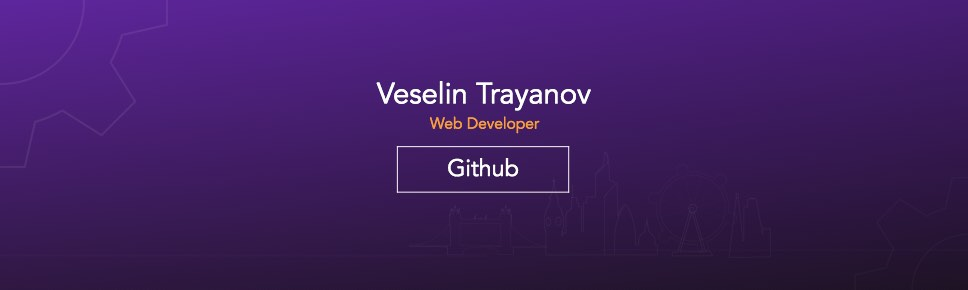
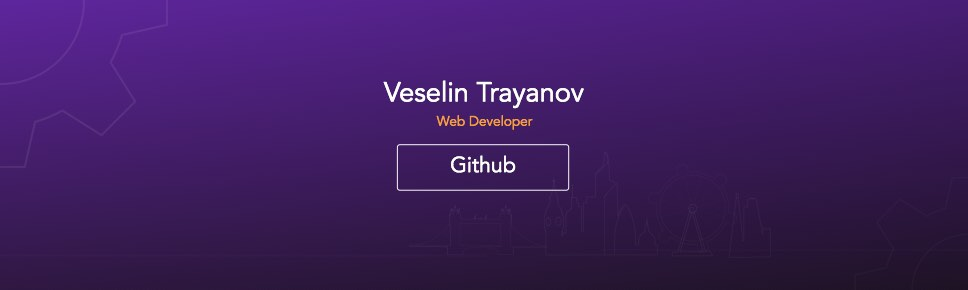
BTN

diff --git a/VH.hyperesources/vh_hype_generated_script.js b/VH.hyperesources/vh_hype_generated_script.js
@@ -4,4 +4,4 @@
 !1)try{for(var c=document.getElementsByTagName("script"),a=0;a<c.length;a++){var d=c[a].src,b=null!=d?d.indexOf("/vh_hype_generated_script.js"):-1;if(-1!=b){l=d.substr(0,b);break}}}catch(p){}c=navigator.userAgent.match(/MSIE (\d+\.\d+)/);c=parseFloat(c&&c[1])||null;d=!0==(null!=window.HYPE_664F||null!=window.HYPE_dtl_664F)||false==!0||null!=c&&10>c;a=!0==d?"HYPE-664.full.min.js":"HYPE-664.thin.min.js";c=!0==d?"F":"T";d=d?"":
 "";if(false==!1&&(a=k("HYPE_664"+c,"HYPE_dtl_664"+c,a,d),false==!0&&(a=a||k("HYPE_w_664","HYPE_wdtl_664","HYPE-664.waypoints.min.js","")),false==!0&&(a=a||k("Matter","HYPE_pdtl_664","HYPE-664.physics.min.js","")),a))return;d=window.HYPE.documents;if(null!=d[f]){b=1;a=f;do f=""+a+"-"+b++;while(null!=d[f]);for(var e=document.getElementsByTagName("div"),
 b=!1,a=0;a<e.length;a++)if(e[a].id==g&&null==e[a].getAttribute("HYP_dn")){var b=1,h=g;do g=""+h+"-"+b++;while(null!=document.getElementById(g));e[a].id=g;b=!0;break}if(!1==b)return}b=[];b=[];e={};h={};for(a=0;a<b.length;a++)try{h[b[a].identifier]=b[a].name,e[b[a].name]=eval("(function(){return "+b[a].source+"})();")}catch(n){window.console&&window.console.log(n),e[b[a].name]=function(){}}c=new window["HYPE_664"+c](f,g,{"10":{p:1,n:"web.svg",g:"119",t:"image/svg+xml"},"2":{p:1,n:"hig.svg",g:"65",t:"image/svg+xml"},"-2":{n:"blank.gif"},"3":{p:1,n:"rocket.svg",g:"67",t:"image/svg+xml"},"11":{p:1,n:"mes.svg",g:"124",t:"image/svg+xml"},"4":{p:1,n:"fl.svg",g:"76",t:"image/svg+xml"},"5":{p:1,n:"bus.svg",g:"80",t:"image/svg+xml"},"12":{p:1,n:"stan.svg",g:"141",t:"image/svg+xml"},"6":{p:1,n:"car1.svg",g:"87",t:"image/svg+xml"},"7":{p:1,n:"q.svg",g:"59",t:"image/svg+xml"},"-1":{n:"PIE.htc"},"0":{p:1,n:"sky.svg",g:"61",t:"image/svg+xml"},"8":{p:1,n:"code.svg",g:"102",t:"image/svg+xml"},"1":{p:1,n:"bridge.svg",g:"63",t:"image/svg+xml"},"9":{p:1,n:"wh.svg",g:"115",t:"image/svg+xml"}},l,[],e,[{n:"Untitled Scene",o:"1",X:[0]}],
-[{o:"3",p:"600px",cA:false,a:100,Z:300,Y:1000,c:"#FFF",L:[],bY:1,d:1000,U:{},T:{"149_hover":{q:false,z:1,i:"149_hover",n:"149_hover",a:[{f:"b",y:0,z:1,i:"g",e:"rgba(78, 33, 125, 0.599)",s:"rgba(240, 240, 240, 0.000)",o:"156"},{f:"b",y:0,z:1,i:"Q",e:7,s:0,o:"156"},{f:"b",y:0,z:1,i:"S",e:0,s:0,o:"156"},{f:"b",y:0,z:1,i:"T",e:6,s:0,o:"156"},{f:"b",y:0,z:1,i:"R",e:"rgba(0, 0, 0, 0.425)",s:"#000",o:"156"},{y:1,i:"g",s:"rgba(78, 33, 125, 0.599)",z:0,o:"156",f:"b"},{y:1,i:"Q",s:7,z:0,o:"156",f:"b"},{y:1,i:"S",s:0,z:0,o:"156",f:"b"},{y:1,i:"T",s:6,z:0,o:"156",f:"b"},{y:1,i:"R",s:"rgba(0, 0, 0, 0.425)",z:0,o:"156",f:"b"}],f:30,b:[]},"149_pressed":{q:false,z:1,i:"149_pressed",n:"149_pressed",a:[{f:"b",y:0,z:1,i:"g",e:"rgba(45, 23, 63, 0.602)",s:"rgba(240, 240, 240, 0.000)",o:"156"},{f:"b",y:0,z:1,i:"B",e:"#C7BEDE",s:"#FFF",o:"156"},{f:"b",y:0,z:1,i:"C",e:"#C7BEDE",s:"#FFF",o:"156"},{f:"b",y:0,z:1,i:"D",e:"#C7BEDE",s:"#FFF",o:"156"},{f:"b",y:0,z:1,i:"A",e:"#C7BEDE",s:"#FFF",o:"156"},{f:"b",y:0,z:1,i:"S",e:0,s:0,o:"156"},{f:"b",y:0,z:1,i:"T",e:0,s:0,o:"156"},{f:"b",y:0,z:1,i:"Q",e:1,s:0,o:"156"},{f:"b",y:0,z:1,i:"R",e:"#000",s:"#000",o:"156"},{y:1,i:"g",s:"rgba(45, 23, 63, 0.602)",z:0,o:"156",f:"b"},{y:1,i:"B",s:"#C7BEDE",z:0,o:"156",f:"b"},{y:1,i:"C",s:"#C7BEDE",z:0,o:"156",f:"b"},{y:1,i:"D",s:"#C7BEDE",z:0,o:"156",f:"b"},{y:1,i:"A",s:"#C7BEDE",z:0,o:"156",f:"b"},{y:1,i:"S",s:0,z:0,o:"156",f:"b"},{y:1,i:"T",s:0,z:0,o:"156",f:"b"},{y:1,i:"Q",s:1,z:0,o:"156",f:"b"},{y:1,i:"R",s:"#000",z:0,o:"156",f:"b"}],f:30,b:[]},kTimelineDefaultIdentifier:{j:{"7":[[-51,156,-51,156,1252,8,1252,8]],"3":[[1263,272,1263,272,1160,272,1013,272],[1013,272,639,272,-58,272,-58,272]],"8":[[1247,379,1247,379,203,-34,203,-34]],"4":[[903,366,903,366,505,-59,505,-59]],"0":[[910,372,910,372,903,366,903,366]],"9":[[-58,272,-58,272,-128,272,-128,272]],"5":[[-62,157,-62,157,-51,156,-51,156]],"1":[[-75,157,-75,157,-62,157,-62,157]],"6":[[505,-59,505,-59,494,-58,494,-58]],"2":[[1421,273,1421,273,1263,272,1263,272]]},q:false,z:23,i:"kTimelineDefaultIdentifier",n:"Main Timeline",a:[{f:"b",y:0,z:0.1,i:"a",e:133,s:123,o:"180"},{f:"b",y:0,z:0.1,i:"b",e:312,s:315,o:"180"},{f:"b",y:0,z:5.17,i:"c",e:35,s:34,o:"180"},{f:"b",y:0,z:5.17,i:"d",e:35,s:34,o:"180"},{f:"b",y:0,z:5.17,i:"f",e:20,s:0,o:"180"},{o:"159",y:0,z:3.09,i:"a",e:880,a:"0",f:"b",s:887},{f:"b",y:0,z:8.07,i:"f",e:272,s:286,o:"159"},{o:"159",y:0,z:3.09,i:"b",e:343,a:"0",f:"b",s:349},{o:"165",y:0,z:5,i:"b",e:134,a:"1",f:"b",s:134},{o:"165",y:0,z:5,i:"a",e:-85,a:"1",f:"b",s:-98},{f:"b",y:0,z:19.21,i:"b",e:220,s:223,o:"177"},{f:"b",y:0,z:19.21,i:"a",e:1221,s:-296,o:"177"},{f:"b",y:0,z:23,i:"f",e:369,s:0,o:"181"},{f:"b",y:0,z:1.16,i:"a",e:1224,s:1966,o:"182"},{f:"b",y:0,z:1.16,i:"b",e:235,s:251,o:"182"},{o:"183",y:0,z:2.25,i:"b",e:221.5,a:"2",f:"b",s:222.5},{o:"183",y:0,z:2.25,i:"a",e:1216.5,a:"2",f:"b",s:1374.5},{f:"b",y:0,z:22,i:"b",e:-1617,s:-59,o:"157"},{f:"b",y:0,z:22,i:"a",e:-4,s:0,o:"157"},{f:"b",y:0,z:22,i:"a",e:992,s:-1287,o:"171"},{f:"b",y:0,z:22,i:"b",e:-1039,s:-1008,o:"171"},{f:"b",y:0,z:22,i:"a",e:-760,s:1627,o:"179"},{f:"b",y:0,z:22,i:"b",e:-1249,s:-1249,o:"179"},{f:"b",y:0,z:21.02,i:"b",e:888,s:-1741,o:"168"},{f:"b",y:0,z:21.02,i:"a",e:42,s:54,o:"168"},{f:"b",y:0,z:21.02,i:"e",e:0.040001978,s:0.062598892,o:"168"},{f:"b",y:0,z:22.14,i:"f",e:360,s:0,o:"160"},{f:"b",y:0,z:22.14,i:"f",e:0,s:360,o:"174"},{f:"b",y:0,z:22.14,i:"b",e:-378,s:345,o:"163"},{f:"b",y:0,z:22.14,i:"a",e:176,s:188,o:"163"},{f:"b",y:0,z:9.17,i:"b",e:521,s:-195,o:"184"},{f:"b",y:0,z:9.17,i:"a",e:511,s:511,o:"184"},{f:"b",y:0,z:21.11,i:"a",e:1072,s:-219,o:"176"},{f:"b",y:0,z:21.11,i:"b",e:41,s:41,o:"176"},{f:"b",y:0.1,z:5.07,i:"a",e:932,s:133,o:"180"},{f:"b",y:0.1,z:5.07,i:"b",e:-32,s:312,o:"180"},{f:"b",y:1.16,z:21,i:"b",e:227,s:235,o:"182"},{f:"b",y:1.16,z:8.23,i:"a",e:1216,s:1224,o:"182"},{o:"183",y:2.25,z:14.05,i:"a",e:-104.5,a:"3",f:"b",s:1216.5},{o:"183",y:2.25,z:14.05,i:"b",e:221.5,a:"3",f:"b",s:221.5},{f:"b",y:3,z:16,i:"a",e:1088,s:-197,o:"166"},{f:"b",y:3,z:16,i:"b",e:71,s:71,o:"166"},{o:"159",y:3.09,z:1.21,i:"a",e:482,a:"4",f:"b",s:880},{o:"159",y:3.09,z:1.21,i:"b",e:-82,a:"4",f:"b",s:343},{f:"b",y:3.23,z:14.22,i:"a",e:421,s:389,o:"162"},{f:"b",y:3.23,z:14.22,i:"b",e:-1610,s:-53,o:"162"},{o:"165",y:5,z:1.09,i:"b",e:133,a:"5",f:"b",s:134},{o:"165",y:5,z:1.09,i:"a",e:-74,a:"5",f:"b",s:-85},{o:"159",y:5,z:0.05,i:"a",e:471,a:"6",f:"b",s:482},{o:"159",y:5,z:0.05,i:"b",e:-81,a:"6",f:"b",s:-82},{y:5.05,i:"b",s:-81,z:0,o:"159",f:"b"},{y:5.05,i:"a",s:471,z:0,o:"159",f:"b"},{y:5.17,i:"c",s:35,z:0,o:"180",f:"b"},{y:5.17,i:"d",s:35,z:0,o:"180",f:"b"},{y:5.17,i:"f",s:20,z:0,o:"180",f:"b"},{y:5.17,i:"b",s:-32,z:0,o:"180",f:"b"},{y:5.17,i:"a",s:932,z:0,o:"180",f:"b"},{o:"165",y:6.09,z:7.21,i:"b",e:-15,a:"7",f:"b",s:133},{o:"165",y:6.09,z:7.21,i:"a",e:1229,a:"7",f:"b",s:-74},{f:"b",y:8.07,z:3.23,i:"f",e:299,s:272,o:"159"},{o:"167",y:8.14,z:14,i:"a",e:180,a:"8",f:"b",s:1224},{o:"167",y:8.14,z:14,i:"b",e:-57,a:"8",f:"b",s:356},{y:9.17,i:"b",s:521,z:0,o:"184",f:"b"},{y:9.17,i:"a",s:511,z:0,o:"184",f:"b"},{f:"b",y:10.09,z:12.07,i:"a",e:-90,s:1216,o:"182"},{y:12,i:"f",s:299,z:0,o:"159",f:"b"},{y:14,i:"b",s:-15,z:0,o:"165",f:"b"},{y:14,i:"a",s:1229,z:0,o:"165",f:"b"},{f:"b",y:16,z:6,i:"d",e:35,s:45,o:"154"},{f:"b",y:16,z:6,i:"a",e:1219,s:-43,o:"154"},{f:"b",y:16,z:6,i:"b",e:-27,s:306,o:"154"},{f:"b",y:16,z:6,i:"c",e:35,s:45,o:"154"},{o:"183",y:17,z:1.15,i:"a",e:-174.5,a:"9",f:"b",s:-104.5},{o:"183",y:17,z:1.15,i:"b",e:221.5,a:"9",f:"b",s:221.5},{y:18.15,i:"a",s:421,z:0,o:"162",f:"b"},{y:18.15,i:"b",s:-1610,z:0,o:"162",f:"b"},{y:18.15,i:"b",s:221.5,z:0,o:"183",f:"b"},{y:18.15,i:"a",s:-174.5,z:0,o:"183",f:"b"},{y:19,i:"a",s:1088,z:0,o:"166",f:"f"},{y:19,i:"b",s:71,z:0,o:"166",f:"f"},{y:19.21,i:"b",s:220,z:0,o:"177",f:"b"},{y:19.21,i:"a",s:1221,z:0,o:"177",f:"b"},{y:21.02,i:"b",s:888,z:0,o:"168",f:"b"},{y:21.02,i:"a",s:42,z:0,o:"168",f:"b"},{y:21.02,i:"e",s:0.040001978,z:0,o:"168",f:"b"},{y:21.11,i:"a",s:1072,z:0,o:"176",f:"b"},{y:21.11,i:"b",s:41,z:0,o:"176",f:"b"},{y:22,i:"c",s:35,z:0,o:"154",f:"b"},{y:22,i:"b",s:-27,z:0,o:"154",f:"b"},{y:22,i:"a",s:1219,z:0,o:"154",f:"b"},{y:22,i:"d",s:35,z:0,o:"154",f:"b"},{y:22,i:"b",s:-1617,z:0,o:"157",f:"b"},{y:22,i:"a",s:-4,z:0,o:"157",f:"b"},{y:22,i:"a",s:992,z:0,o:"171",f:"b"},{y:22,i:"b",s:-1039,z:0,o:"171",f:"b"},{y:22,i:"b",s:-1249,z:0,o:"179",f:"b"},{y:22,i:"a",s:-760,z:0,o:"179",f:"b"},{f:"b",p:2,y:22.14,z:0,i:"ActionHandler",s:{a:[{b:"kTimelineDefaultIdentifier",p:3,z:false,symbolOid:"2"}]},o:"kTimelineDefaultIdentifier"},{y:22.14,i:"b",s:-57,z:0,o:"167",f:"b"},{y:22.14,i:"a",s:180,z:0,o:"167",f:"b"},{y:22.14,i:"f",s:360,z:0,o:"160",f:"b"},{y:22.14,i:"f",s:0,z:0,o:"174",f:"b"},{y:22.14,i:"b",s:-378,z:0,o:"163",f:"b"},{y:22.14,i:"a",s:176,z:0,o:"163",f:"b"},{y:22.16,i:"b",s:227,z:0,o:"182",f:"b"},{y:22.16,i:"a",s:-90,z:0,o:"182",f:"b"},{y:23,i:"f",s:369,z:0,o:"181",f:"b"}],f:30,b:[]}},bZ:180,O:["168","179","171","160","184","157","162","158","170","176","166","161","175","165","156","155","172","173","174","181","164","177","183","182","169","178","154","180","163","159","167"],n:"Untitled Layout","_":0,v:{"173":{h:"65",p:"no-repeat",x:"visible",a:752,q:"100% 100%",b:156,j:"absolute",r:"inline",z:4,bS:261,dB:"img",d:153,k:"div",c:45,e:0.1},"165":{h:"67",p:"no-repeat",x:"visible",tY:0.5,q:"100% 100%",a:-98,j:"absolute",r:"inline",bS:296,b:134,z:11,d:46,dB:"img",k:"div",e:0.13453323,c:46,f:394,tX:0.5},"157":{h:"102",p:"no-repeat",x:"visible",a:0,dB:"img",q:"100% 100%",j:"absolute",r:"inline",z:23,b:-59,k:"div",d:2604,c:651,e:0.04},"178":{c:479,bS:5,d:-2,I:"Solid",e:0.2,J:"Solid",K:"Solid",g:"rgba(198, 9, 204, 0.000)",L:"Solid",M:1,N:1,A:"#431D69",j:"absolute",x:"visible",B:"#431D69",P:1,O:1,C:"#431D69",z:22,k:"div",D:"#431D69",a:621,b:257},"161":{aU:8,G:"#FFF",c:984,bS:5,aV:8,r:"inline",d:32,s:"Avenir,Helvetica,Arial,Sans-Serif",t:30,Z:"break-word",w:"Veselin Trayanov\n",j:"absolute",x:"visible",k:"div",y:"preserve",z:38,aS:8,aT:8,a:0,F:"center",b:69},"182":{w:"",h:"87",p:"no-repeat",x:"visible",bS:256,q:"100% 100%",b:251,a:1966,j:"absolute",r:"inline",z:20,dB:"img",d:87,k:"div",cQ:1.1,e:0.15,c:87},"174":{h:"115",p:"no-repeat",x:"visible",a:857,q:"100% 100%",b:157,j:"absolute",r:"inline",bS:5,z:30,dB:"img",d:286,k:"div",c:286,bL:0,e:0.033148734,f:360},"166":{h:"124",p:"no-repeat",x:"visible",a:-197,dB:"img",q:"100% 100%",j:"absolute",r:"none",z:33,k:"div",b:71,d:169,c:169},"158":{c:1117,bS:7,d:324,I:"Solid",J:"Solid",K:"Solid",L:"Solid",M:0,w:"",N:0,A:"#512284",j:"absolute",x:"visible",B:"#512284",O:0,P:0,C:"#512284",z:35,l:-572,D:"#512284",m:"rgba(0, 0, 0, 0.183)",k:"div",n:"rgba(101, 37, 158, 0.089)",a:-8,b:-9},"179":{h:"102",p:"no-repeat",x:"visible",a:1627,q:"100% 100%",b:-1249,j:"absolute",r:"inline",z:27,dB:"img",k:"div",d:2604,c:651,bL:2,e:0.03,f:270},"170":{c:1001,bS:263,d:307,r:"inline",I:"None",J:"None",K:"None",L:"None",M:0,N:0,A:"#B31F9C",j:"absolute",x:"visible",B:"#B31F9C",O:0,P:0,C:"#B31F9C",z:3,l:356,D:"#B31F9C",m:"#1C131F",k:"div",n:"#631FA7",a:-1,b:-1},"162":{h:"102",p:"no-repeat",x:"visible",a:389,q:"100% 100%",b:-53,j:"absolute",r:"inline",bS:5,z:24,dB:"img",d:2604,k:"div",c:651,bL:0.05,e:0.07},"154":{h:"76",p:"no-repeat",x:"visible",a:-43,q:"100% 100%",bS:256,j:"absolute",r:"inline",b:306,z:13,dB:"img",d:45,bG:0,k:"div",bL:0,e:0.47231013,c:45,f:22},"183":{p:"no-repeat",tY:0.5,b:222.5,q:"100% 100%",bS:256,d:101,r:"inline",c:93,e:0.15,cQ:1.1,cR:1,h:"80",aY:180,j:"absolute",x:"visible",k:"div",dB:"img",z:17,tX:0.5,a:1374.5,bR:0},"175":{aU:8,G:"#FD9F28",c:985,bS:5,aV:8,r:"inline",d:22,s:"Avenir,Helvetica,Arial,Sans-Serif",t:16,Z:"break-word",w:"Web Developer",j:"absolute",x:"visible",k:"div",y:"preserve",z:39,aS:8,aT:8,a:0,F:"center",b:109},"167":{h:"67",p:"no-repeat",x:"visible",tY:0.5,q:"100% 100%",a:1224,j:"absolute",r:"inline",bS:256,b:356,z:12,d:46,dB:"img",k:"div",e:0.17034217,c:46,f:977,tX:0.5},"159":{h:"67",p:"no-repeat",x:"visible",tY:0.5,q:"100% 100%",a:887,j:"absolute",r:"inline",bS:256,b:349,z:10,d:46,dB:"img",k:"div",e:0.159464,c:46,f:286,tX:0.5},"171":{h:"102",p:"no-repeat",x:"visible",a:-1287,q:"100% 100%",b:-1008,j:"absolute",r:"inline",z:26,dB:"img",k:"div",d:2604,c:651,bL:2,e:0.04,f:90},"163":{h:"119",p:"no-repeat",x:"visible",a:188,q:"100% 100%",b:345,j:"absolute",r:"inline",bS:5,z:29,dB:"img",d:200,k:"div",c:200,bL:0,e:0.066139241},"155":{h:"61",p:"no-repeat",x:"visible",a:561,q:"100% 100%",b:156,j:"absolute",r:"inline",z:6,bS:261,dB:"img",d:118,k:"div",c:119,e:0.13834059},"184":{p:"no-repeat",bJ:0.87618671,c:145,q:"100% 100%",bS:5,bK:0.45747628,r:"inline",d:145,e:0.1,h:"119",j:"absolute",x:"visible",bG:1,k:"div",dB:"img",z:32,bH:226,bI:11,a:511,b:-195},"176":{h:"124",p:"no-repeat",x:"visible",a:-219,dB:"img",q:"100% 100%",j:"absolute",r:"inline",z:34,b:41,k:"div",d:200,c:200,e:0.2},"168":{h:"102",p:"no-repeat",x:"visible",a:54,q:"100% 100%",b:-1741,j:"absolute",r:"inline",z:25,dB:"img",k:"div",d:2604,c:651,bL:2,e:0.062598892},"180":{h:"67",p:"no-repeat",x:"visible",a:123,q:"100% 100%",b:315,j:"absolute",r:"inline",z:9,bS:256,dB:"img",d:34,k:"div",c:34,e:0.2,f:0},"172":{h:"141",p:"no-repeat",x:"visible",a:657,q:"100% 100%",b:158,j:"absolute",r:"inline",z:40,bS:5,dB:"img",d:115,k:"div",c:115,e:0.15},"164":{w:"",h:"63",p:"no-repeat",x:"visible",bS:261,q:"100% 100%",b:184,a:421,j:"absolute",r:"inline",z:7,dB:"img",d:107,k:"div",c:145,e:0.082990506},"156":{b:151,z:41,K:"Solid",c:164,L:"Solid",d:34,gg:"0",M:1,e:1,bD:"none",N:1,aS:6,bS:5,O:1,g:"rgba(240, 240, 240, 0.000)",aU:6,P:1,dB:"button",aT:6,Q:0,aV:6,R:"#000",j:"absolute",S:0,k:"div",aI:0,T:0,aJ:0,aK:0,aL:0,A:"#FFF",B:"#FFF",aM:"149_hover",r:"inline",C:"#FFF",Z:"break-word",s:"Avenir,Helvetica,Arial,Sans-Serif",aN:"149_pressed",D:"#FFF",t:24,F:"center",aA:{a:[{j:"https://github.com/bacc0/",p:5,k:true}]},G:"#FFF",aP:"pointer",w:"Github",x:"visible",I:"Solid",a:410,y:"preserve",J:"Solid"},"177":{h:"80",p:"no-repeat",x:"visible",a:-296,q:"100% 100%",b:223,j:"absolute",r:"inline",z:14,bS:261,dB:"img",d:97,k:"div",c:98,e:0.15},"169":{c:1316,bS:5,d:-2,I:"Solid",cY:"0",e:0.1,J:"Solid",aW:0,gg:"0",K:"Solid",g:"#C609CC",L:"Solid",aX:10,M:1,N:1,j:"absolute",O:1,x:"visible",B:"#512284",P:1,A:"#512284",C:"#512284",z:21,Q:0,D:"#512284",R:"#000",k:"div",S:0,a:-815,T:0,b:263},"160":{p:"no-repeat",bJ:0,c:418,q:"100% 100%",bK:0.8880538,r:"inline",d:418,e:0.084721123,bL:2,f:0,h:"115",j:"absolute",x:"visible",bG:1,k:"div",dB:"img",z:28,bH:90,bI:11,a:-209,b:-209},"181":{h:"59",p:"no-repeat",x:"visible",a:668,q:"100% 100%",b:168,j:"absolute",r:"inline",z:5,bS:261,dB:"img",d:94,k:"div",c:94,e:0.069610364,f:0}}}],{},h,{f:{p:0,q:[[0,0,0.1971,0,0.3391,0.8944,0.3636,1],[0.3636,1,0.3636,1,0.4425,0.75,0.5455,0.75],[0.5455,0.75,0.6519,0.75,0.7273,1,0.7273,1],[0.7273,1,0.7273,1,0.7718,0.9375,0.8182,0.9375],[0.8182,0.9375,0.8646,0.9375,0.9091,1,0.9091,1],[0.9091,1,0.9091,1,0.9294,0.9844,0.9546,0.9844],[0.9546,0.9844,0.9798,0.9844,1,1,1,1]]}},null,false,true,-1,true,true,false,true,true);d[f]=c.API;document.getElementById(g).setAttribute("HYP_dn",f);c.z_o(this.body)})();})();
+[{o:"3",p:"600px",cA:false,a:100,Z:300,Y:1000,c:"#FFF",L:[],bY:1,d:1000,U:{},T:{"149_hover":{q:false,z:1,i:"149_hover",n:"149_hover",a:[{f:"b",y:0,z:1,i:"g",e:"rgba(78, 33, 125, 0.599)",s:"rgba(240, 240, 240, 0.000)",o:"156"},{f:"b",y:0,z:1,i:"Q",e:7,s:0,o:"156"},{f:"b",y:0,z:1,i:"S",e:0,s:0,o:"156"},{f:"b",y:0,z:1,i:"T",e:6,s:0,o:"156"},{f:"b",y:0,z:1,i:"R",e:"rgba(0, 0, 0, 0.425)",s:"#000",o:"156"},{y:1,i:"g",s:"rgba(78, 33, 125, 0.599)",z:0,o:"156",f:"b"},{y:1,i:"Q",s:7,z:0,o:"156",f:"b"},{y:1,i:"S",s:0,z:0,o:"156",f:"b"},{y:1,i:"T",s:6,z:0,o:"156",f:"b"},{y:1,i:"R",s:"rgba(0, 0, 0, 0.425)",z:0,o:"156",f:"b"}],f:30,b:[]},"149_pressed":{q:false,z:1,i:"149_pressed",n:"149_pressed",a:[{f:"b",y:0,z:1,i:"g",e:"rgba(45, 23, 63, 0.602)",s:"rgba(240, 240, 240, 0.000)",o:"156"},{f:"b",y:0,z:1,i:"B",e:"#C7BEDE",s:"#FFF",o:"156"},{f:"b",y:0,z:1,i:"C",e:"#C7BEDE",s:"#FFF",o:"156"},{f:"b",y:0,z:1,i:"D",e:"#C7BEDE",s:"#FFF",o:"156"},{f:"b",y:0,z:1,i:"A",e:"#C7BEDE",s:"#FFF",o:"156"},{f:"b",y:0,z:1,i:"S",e:0,s:0,o:"156"},{f:"b",y:0,z:1,i:"T",e:0,s:0,o:"156"},{f:"b",y:0,z:1,i:"Q",e:1,s:0,o:"156"},{f:"b",y:0,z:1,i:"R",e:"#000",s:"#000",o:"156"},{y:1,i:"g",s:"rgba(45, 23, 63, 0.602)",z:0,o:"156",f:"b"},{y:1,i:"B",s:"#C7BEDE",z:0,o:"156",f:"b"},{y:1,i:"C",s:"#C7BEDE",z:0,o:"156",f:"b"},{y:1,i:"D",s:"#C7BEDE",z:0,o:"156",f:"b"},{y:1,i:"A",s:"#C7BEDE",z:0,o:"156",f:"b"},{y:1,i:"S",s:0,z:0,o:"156",f:"b"},{y:1,i:"T",s:0,z:0,o:"156",f:"b"},{y:1,i:"Q",s:1,z:0,o:"156",f:"b"},{y:1,i:"R",s:"#000",z:0,o:"156",f:"b"}],f:30,b:[]},kTimelineDefaultIdentifier:{j:{"7":[[-51,156,-51,156,1252,8,1252,8]],"3":[[1263,272,1263,272,1160,272,1013,272],[1013,272,639,272,-58,272,-58,272]],"8":[[1247,379,1247,379,203,-34,203,-34]],"4":[[903,366,903,366,505,-59,505,-59]],"0":[[910,372,910,372,903,366,903,366]],"9":[[-58,272,-58,272,-128,272,-128,272]],"5":[[-62,157,-62,157,-51,156,-51,156]],"1":[[-75,157,-75,157,-62,157,-62,157]],"6":[[505,-59,505,-59,494,-58,494,-58]],"2":[[1421,273,1421,273,1263,272,1263,272]]},q:false,z:23,i:"kTimelineDefaultIdentifier",n:"Main Timeline",a:[{f:"b",y:0,z:0.1,i:"a",e:133,s:123,o:"180"},{f:"b",y:0,z:0.1,i:"b",e:312,s:315,o:"180"},{f:"b",y:0,z:5.17,i:"c",e:35,s:34,o:"180"},{f:"b",y:0,z:5.17,i:"d",e:35,s:34,o:"180"},{f:"b",y:0,z:5.17,i:"f",e:20,s:0,o:"180"},{o:"159",y:0,z:3.09,i:"a",e:880,a:"0",f:"b",s:887},{f:"b",y:0,z:8.07,i:"f",e:272,s:286,o:"159"},{o:"159",y:0,z:3.09,i:"b",e:343,a:"0",f:"b",s:349},{o:"165",y:0,z:5,i:"b",e:134,a:"1",f:"b",s:134},{o:"165",y:0,z:5,i:"a",e:-85,a:"1",f:"b",s:-98},{f:"b",y:0,z:19.21,i:"b",e:220,s:223,o:"177"},{f:"b",y:0,z:19.21,i:"a",e:1221,s:-296,o:"177"},{f:"b",y:0,z:23,i:"f",e:369,s:0,o:"181"},{f:"b",y:0,z:1.16,i:"a",e:1224,s:1966,o:"182"},{f:"b",y:0,z:1.16,i:"b",e:235,s:251,o:"182"},{o:"183",y:0,z:2.25,i:"b",e:221.5,a:"2",f:"b",s:222.5},{o:"183",y:0,z:2.25,i:"a",e:1216.5,a:"2",f:"b",s:1374.5},{f:"b",y:0,z:22,i:"b",e:-1617,s:-59,o:"157"},{f:"b",y:0,z:22,i:"a",e:-4,s:0,o:"157"},{f:"b",y:0,z:22,i:"a",e:992,s:-1287,o:"171"},{f:"b",y:0,z:22,i:"b",e:-1039,s:-1008,o:"171"},{f:"b",y:0,z:22,i:"a",e:-760,s:1627,o:"179"},{f:"b",y:0,z:22,i:"b",e:-1249,s:-1249,o:"179"},{f:"b",y:0,z:21.02,i:"b",e:888,s:-1741,o:"168"},{f:"b",y:0,z:21.02,i:"a",e:42,s:54,o:"168"},{f:"b",y:0,z:21.02,i:"e",e:0.040001978,s:0.062598892,o:"168"},{f:"b",y:0,z:22.14,i:"f",e:360,s:0,o:"160"},{f:"b",y:0,z:22.14,i:"f",e:0,s:360,o:"174"},{f:"b",y:0,z:22.14,i:"b",e:-378,s:345,o:"163"},{f:"b",y:0,z:22.14,i:"a",e:176,s:188,o:"163"},{f:"b",y:0,z:9.17,i:"b",e:521,s:-195,o:"184"},{f:"b",y:0,z:9.17,i:"a",e:511,s:511,o:"184"},{f:"b",y:0,z:21.11,i:"a",e:1072,s:-219,o:"176"},{f:"b",y:0,z:21.11,i:"b",e:41,s:41,o:"176"},{f:"b",y:0.1,z:5.07,i:"a",e:932,s:133,o:"180"},{f:"b",y:0.1,z:5.07,i:"b",e:-32,s:312,o:"180"},{f:"b",y:1.16,z:21,i:"b",e:227,s:235,o:"182"},{f:"b",y:1.16,z:8.23,i:"a",e:1216,s:1224,o:"182"},{o:"183",y:2.25,z:14.05,i:"a",e:-104.5,a:"3",f:"b",s:1216.5},{o:"183",y:2.25,z:14.05,i:"b",e:221.5,a:"3",f:"b",s:221.5},{f:"b",y:3,z:16,i:"a",e:1088,s:-197,o:"166"},{f:"b",y:3,z:16,i:"b",e:71,s:71,o:"166"},{o:"159",y:3.09,z:1.21,i:"a",e:482,a:"4",f:"b",s:880},{o:"159",y:3.09,z:1.21,i:"b",e:-82,a:"4",f:"b",s:343},{f:"b",y:3.23,z:14.22,i:"a",e:421,s:389,o:"162"},{f:"b",y:3.23,z:14.22,i:"b",e:-1610,s:-53,o:"162"},{o:"165",y:5,z:1.09,i:"b",e:133,a:"5",f:"b",s:134},{o:"165",y:5,z:1.09,i:"a",e:-74,a:"5",f:"b",s:-85},{o:"159",y:5,z:0.05,i:"a",e:471,a:"6",f:"b",s:482},{o:"159",y:5,z:0.05,i:"b",e:-81,a:"6",f:"b",s:-82},{y:5.05,i:"b",s:-81,z:0,o:"159",f:"b"},{y:5.05,i:"a",s:471,z:0,o:"159",f:"b"},{y:5.17,i:"c",s:35,z:0,o:"180",f:"b"},{y:5.17,i:"d",s:35,z:0,o:"180",f:"b"},{y:5.17,i:"f",s:20,z:0,o:"180",f:"b"},{y:5.17,i:"b",s:-32,z:0,o:"180",f:"b"},{y:5.17,i:"a",s:932,z:0,o:"180",f:"b"},{o:"165",y:6.09,z:7.21,i:"b",e:-15,a:"7",f:"b",s:133},{o:"165",y:6.09,z:7.21,i:"a",e:1229,a:"7",f:"b",s:-74},{f:"b",y:8.07,z:3.23,i:"f",e:299,s:272,o:"159"},{o:"167",y:8.14,z:14,i:"a",e:180,a:"8",f:"b",s:1224},{o:"167",y:8.14,z:14,i:"b",e:-57,a:"8",f:"b",s:356},{y:9.17,i:"b",s:521,z:0,o:"184",f:"b"},{y:9.17,i:"a",s:511,z:0,o:"184",f:"b"},{f:"b",y:10.09,z:12.07,i:"a",e:-90,s:1216,o:"182"},{y:12,i:"f",s:299,z:0,o:"159",f:"b"},{y:14,i:"b",s:-15,z:0,o:"165",f:"b"},{y:14,i:"a",s:1229,z:0,o:"165",f:"b"},{f:"b",y:16,z:6,i:"d",e:35,s:45,o:"154"},{f:"b",y:16,z:6,i:"a",e:1219,s:-43,o:"154"},{f:"b",y:16,z:6,i:"b",e:-27,s:306,o:"154"},{f:"b",y:16,z:6,i:"c",e:35,s:45,o:"154"},{o:"183",y:17,z:1.15,i:"a",e:-174.5,a:"9",f:"b",s:-104.5},{o:"183",y:17,z:1.15,i:"b",e:221.5,a:"9",f:"b",s:221.5},{y:18.15,i:"a",s:421,z:0,o:"162",f:"b"},{y:18.15,i:"b",s:-1610,z:0,o:"162",f:"b"},{y:18.15,i:"b",s:221.5,z:0,o:"183",f:"b"},{y:18.15,i:"a",s:-174.5,z:0,o:"183",f:"b"},{y:19,i:"a",s:1088,z:0,o:"166",f:"f"},{y:19,i:"b",s:71,z:0,o:"166",f:"f"},{y:19.21,i:"b",s:220,z:0,o:"177",f:"b"},{y:19.21,i:"a",s:1221,z:0,o:"177",f:"b"},{y:21.02,i:"b",s:888,z:0,o:"168",f:"b"},{y:21.02,i:"a",s:42,z:0,o:"168",f:"b"},{y:21.02,i:"e",s:0.040001978,z:0,o:"168",f:"b"},{y:21.11,i:"a",s:1072,z:0,o:"176",f:"b"},{y:21.11,i:"b",s:41,z:0,o:"176",f:"b"},{y:22,i:"c",s:35,z:0,o:"154",f:"b"},{y:22,i:"b",s:-27,z:0,o:"154",f:"b"},{y:22,i:"a",s:1219,z:0,o:"154",f:"b"},{y:22,i:"d",s:35,z:0,o:"154",f:"b"},{y:22,i:"b",s:-1617,z:0,o:"157",f:"b"},{y:22,i:"a",s:-4,z:0,o:"157",f:"b"},{y:22,i:"a",s:992,z:0,o:"171",f:"b"},{y:22,i:"b",s:-1039,z:0,o:"171",f:"b"},{y:22,i:"b",s:-1249,z:0,o:"179",f:"b"},{y:22,i:"a",s:-760,z:0,o:"179",f:"b"},{f:"b",p:2,y:22.14,z:0,i:"ActionHandler",s:{a:[{b:"kTimelineDefaultIdentifier",p:3,z:false,symbolOid:"2"}]},o:"kTimelineDefaultIdentifier"},{y:22.14,i:"b",s:-57,z:0,o:"167",f:"b"},{y:22.14,i:"a",s:180,z:0,o:"167",f:"b"},{y:22.14,i:"f",s:360,z:0,o:"160",f:"b"},{y:22.14,i:"f",s:0,z:0,o:"174",f:"b"},{y:22.14,i:"b",s:-378,z:0,o:"163",f:"b"},{y:22.14,i:"a",s:176,z:0,o:"163",f:"b"},{y:22.16,i:"b",s:227,z:0,o:"182",f:"b"},{y:22.16,i:"a",s:-90,z:0,o:"182",f:"b"},{y:23,i:"f",s:369,z:0,o:"181",f:"b"}],f:30,b:[]}},bZ:180,O:["168","179","171","160","184","157","162","158","170","176","166","161","175","165","156","155","172","173","174","181","164","177","183","182","169","178","154","180","163","159","167"],n:"Untitled Layout","_":0,v:{"173":{h:"65",p:"no-repeat",x:"visible",a:752,q:"100% 100%",b:156,j:"absolute",r:"inline",z:4,bS:261,dB:"img",d:153,k:"div",c:45,e:0.1},"165":{h:"67",p:"no-repeat",x:"visible",tY:0.5,q:"100% 100%",a:-98,j:"absolute",r:"inline",bS:296,b:134,z:11,d:46,dB:"img",k:"div",e:0.13453323,c:46,f:394,tX:0.5},"157":{h:"102",p:"no-repeat",x:"visible",a:0,dB:"img",q:"100% 100%",j:"absolute",r:"inline",z:23,b:-59,k:"div",d:2604,c:651,e:0.04},"178":{c:479,bS:5,d:-2,I:"Solid",e:0.2,J:"Solid",K:"Solid",g:"rgba(198, 9, 204, 0.000)",L:"Solid",M:1,N:1,A:"#431D69",j:"absolute",x:"visible",B:"#431D69",P:1,O:1,C:"#431D69",z:22,k:"div",D:"#431D69",a:621,b:257},"161":{aU:8,G:"#FFF",c:984,bS:5,aV:8,r:"inline",d:32,s:"Avenir,Helvetica,Arial,Sans-Serif",t:28,Z:"break-word",w:"Veselin Trayanov\n",j:"absolute",x:"visible",k:"div",y:"preserve",z:38,aS:8,aT:8,a:0,F:"center",b:69},"182":{w:"",h:"87",p:"no-repeat",x:"visible",bS:256,q:"100% 100%",b:251,a:1966,j:"absolute",r:"inline",z:20,dB:"img",d:87,k:"div",cQ:1.1,e:0.15,c:87},"174":{h:"115",p:"no-repeat",x:"visible",a:857,q:"100% 100%",b:157,j:"absolute",r:"inline",bS:5,z:30,dB:"img",d:286,k:"div",c:286,bL:0,e:0.033148734,f:360},"166":{h:"124",p:"no-repeat",x:"visible",a:-197,dB:"img",q:"100% 100%",j:"absolute",r:"none",z:33,k:"div",b:71,d:169,c:169},"158":{c:1117,bS:7,d:324,I:"Solid",J:"Solid",K:"Solid",L:"Solid",M:0,w:"",N:0,A:"#512284",j:"absolute",x:"visible",B:"#512284",O:0,P:0,C:"#512284",z:35,l:-572,D:"#512284",m:"rgba(0, 0, 0, 0.183)",k:"div",n:"rgba(101, 37, 158, 0.089)",a:-8,b:-9},"179":{h:"102",p:"no-repeat",x:"visible",a:1627,q:"100% 100%",b:-1249,j:"absolute",r:"inline",z:27,dB:"img",k:"div",d:2604,c:651,bL:2,e:0.03,f:270},"170":{c:1001,bS:263,d:307,r:"inline",I:"None",J:"None",K:"None",L:"None",M:0,N:0,A:"#B31F9C",j:"absolute",x:"visible",B:"#B31F9C",O:0,P:0,C:"#B31F9C",z:3,l:356,D:"#B31F9C",m:"#1C131F",k:"div",n:"#631FA7",a:-1,b:-1},"162":{h:"102",p:"no-repeat",x:"visible",a:389,q:"100% 100%",b:-53,j:"absolute",r:"inline",bS:5,z:24,dB:"img",d:2604,k:"div",c:651,bL:0.05,e:0.07},"154":{h:"76",p:"no-repeat",x:"visible",a:-43,q:"100% 100%",bS:256,j:"absolute",r:"inline",b:306,z:13,dB:"img",d:45,bG:0,k:"div",bL:0,e:0.47231013,c:45,f:22},"183":{p:"no-repeat",tY:0.5,b:222.5,q:"100% 100%",bS:256,d:101,r:"inline",c:93,e:0.15,cQ:1.1,cR:1,h:"80",aY:180,j:"absolute",x:"visible",k:"div",dB:"img",z:17,tX:0.5,a:1374.5,bR:0},"175":{aU:8,G:"#FD9F28",c:985,bS:5,aV:8,r:"inline",d:22,s:"Avenir,Helvetica,Arial,Sans-Serif",t:14,Z:"break-word",w:"Web Developer",j:"absolute",x:"visible",k:"div",y:"preserve",z:39,aS:8,aT:8,a:0,F:"center",b:108},"167":{h:"67",p:"no-repeat",x:"visible",tY:0.5,q:"100% 100%",a:1224,j:"absolute",r:"inline",bS:256,b:356,z:12,d:46,dB:"img",k:"div",e:0.17034217,c:46,f:977,tX:0.5},"159":{h:"67",p:"no-repeat",x:"visible",tY:0.5,q:"100% 100%",a:887,j:"absolute",r:"inline",bS:256,b:349,z:10,d:46,dB:"img",k:"div",e:0.159464,c:46,f:286,tX:0.5},"171":{h:"102",p:"no-repeat",x:"visible",a:-1287,q:"100% 100%",b:-1008,j:"absolute",r:"inline",z:26,dB:"img",k:"div",d:2604,c:651,bL:2,e:0.04,f:90},"163":{h:"119",p:"no-repeat",x:"visible",a:188,q:"100% 100%",b:345,j:"absolute",r:"inline",bS:5,z:29,dB:"img",d:200,k:"div",c:200,bL:0,e:0.066139241},"155":{h:"61",p:"no-repeat",x:"visible",a:561,q:"100% 100%",b:156,j:"absolute",r:"inline",z:6,bS:261,dB:"img",d:118,k:"div",c:119,e:0.13834059},"184":{p:"no-repeat",bJ:0.87618671,c:145,q:"100% 100%",bS:5,bK:0.45747628,r:"inline",d:145,e:0.1,h:"119",j:"absolute",x:"visible",bG:1,k:"div",dB:"img",z:32,bH:226,bI:11,a:511,b:-195},"176":{h:"124",p:"no-repeat",x:"visible",a:-219,dB:"img",q:"100% 100%",j:"absolute",r:"inline",z:34,b:41,k:"div",d:200,c:200,e:0.2},"168":{h:"102",p:"no-repeat",x:"visible",a:54,q:"100% 100%",b:-1741,j:"absolute",r:"inline",z:25,dB:"img",k:"div",d:2604,c:651,bL:2,e:0.062598892},"180":{h:"67",p:"no-repeat",x:"visible",a:123,q:"100% 100%",b:315,j:"absolute",r:"inline",z:9,bS:256,dB:"img",d:34,k:"div",c:34,e:0.2,f:0},"172":{h:"141",p:"no-repeat",x:"visible",a:657,q:"100% 100%",b:158,j:"absolute",r:"inline",z:40,bS:5,dB:"img",d:115,k:"div",c:115,e:0.15},"164":{w:"",h:"63",p:"no-repeat",x:"visible",bS:261,q:"100% 100%",b:184,a:421,j:"absolute",r:"inline",z:7,dB:"img",d:107,k:"div",c:145,e:0.082990506},"156":{b:149,z:41,K:"Solid",c:164,L:"Solid",d:34,gg:"0",M:1,e:1,bD:"none",N:1,aS:6,bS:5,O:1,g:"rgba(240, 240, 240, 0.000)",aU:6,P:1,dB:"button",aT:6,Q:0,aV:6,R:"#000",j:"absolute",S:0,k:"div",aI:3,T:0,aJ:3,aK:3,aL:3,A:"#FFF",B:"#FFF",aM:"149_hover",r:"inline",C:"#FFF",Z:"break-word",s:"Avenir,Helvetica,Arial,Sans-Serif",aN:"149_pressed",D:"#FFF",t:22,F:"center",aA:{a:[{j:"https://github.com/bacc0/",p:5,k:true}]},G:"#FFF",aP:"pointer",w:"Github",x:"visible",I:"Solid",a:410,y:"preserve",J:"Solid"},"177":{h:"80",p:"no-repeat",x:"visible",a:-296,q:"100% 100%",b:223,j:"absolute",r:"inline",z:14,bS:261,dB:"img",d:97,k:"div",c:98,e:0.15},"169":{c:1316,bS:5,d:-2,I:"Solid",cY:"0",e:0.1,J:"Solid",aW:0,gg:"0",K:"Solid",g:"#C609CC",L:"Solid",aX:10,M:1,N:1,j:"absolute",O:1,x:"visible",B:"#512284",P:1,A:"#512284",C:"#512284",z:21,Q:0,D:"#512284",R:"#000",k:"div",S:0,a:-815,T:0,b:263},"160":{p:"no-repeat",bJ:0,c:418,q:"100% 100%",bK:0.8880538,r:"inline",d:418,e:0.084721123,bL:2,f:0,h:"115",j:"absolute",x:"visible",bG:1,k:"div",dB:"img",z:28,bH:90,bI:11,a:-209,b:-209},"181":{h:"59",p:"no-repeat",x:"visible",a:668,q:"100% 100%",b:168,j:"absolute",r:"inline",z:5,bS:261,dB:"img",d:94,k:"div",c:94,e:0.069610364,f:0}}}],{},h,{f:{p:0,q:[[0,0,0.1971,0,0.3391,0.8944,0.3636,1],[0.3636,1,0.3636,1,0.4425,0.75,0.5455,0.75],[0.5455,0.75,0.6519,0.75,0.7273,1,0.7273,1],[0.7273,1,0.7273,1,0.7718,0.9375,0.8182,0.9375],[0.8182,0.9375,0.8646,0.9375,0.9091,1,0.9091,1],[0.9091,1,0.9091,1,0.9294,0.9844,0.9546,0.9844],[0.9546,0.9844,0.9798,0.9844,1,1,1,1]]}},null,false,true,-1,true,true,false,true,true);d[f]=c.API;document.getElementById(g).setAttribute("HYP_dn",f);c.z_o(this.body)})();})();

diff --git a/trayanov.html b/trayanov.html
@@ -13,7 +13,7 @@
 		<div class='body_wrap'>
 			
 			<div id="vh_hype_container" class="HYPE_document" style="margin:auto;position:relative;width:100%;height:300px;overflow:hidden;">
-				<script type="text/javascript" charset="utf-8" src="VH.hyperesources/vh_hype_generated_script.js?28156"></script>
+				<script type="text/javascript" charset="utf-8" src="VH.hyperesources/vh_hype_generated_script.js?6141"></script>
 			</div>
 
 			<div class='wrap_all'>
